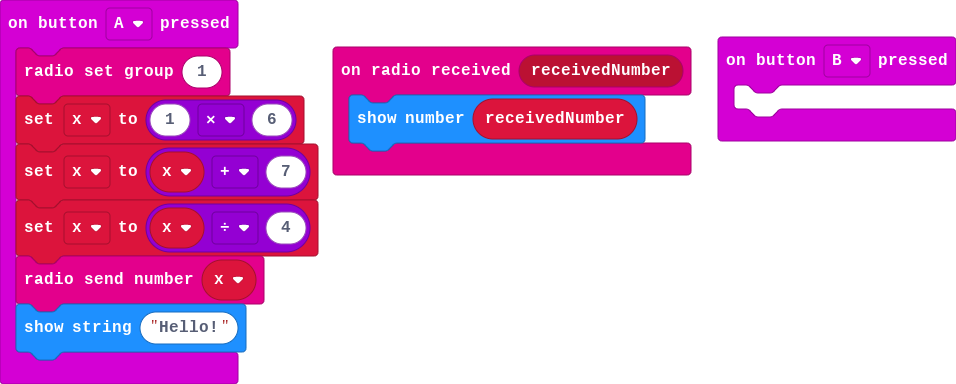
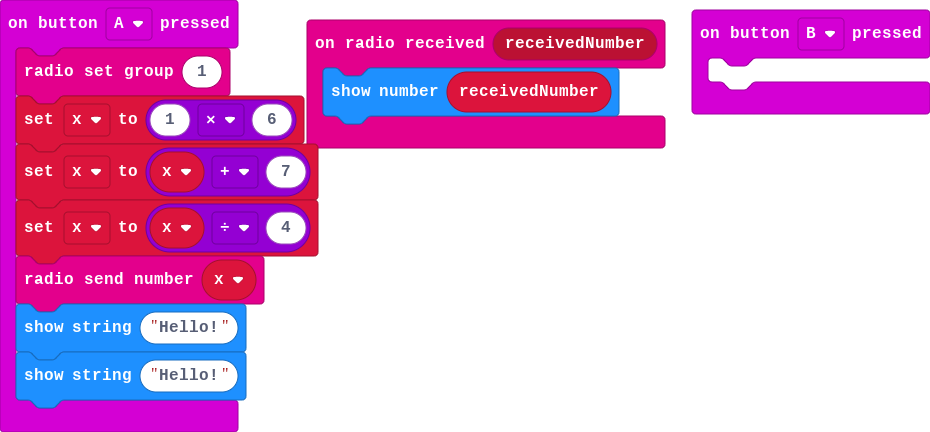
Update pxt.json, main.blocks, main.ts

diff --git a/main.ts b/main.ts
@@ -9,6 +9,7 @@ input.onButtonPressed(Button.A, function () {
     x = x / 4
     radio.sendNumber(x)
     basic.showString("Hello!")
+    basic.showString("Hello!")
 })
 input.onButtonPressed(Button.B, function () {
 	
